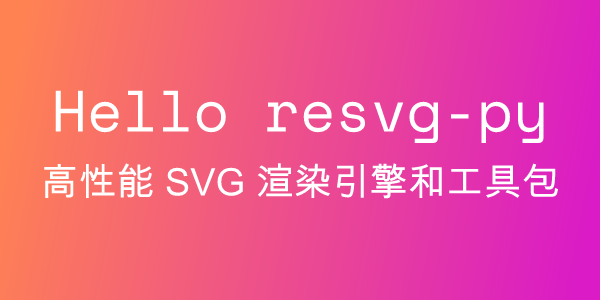
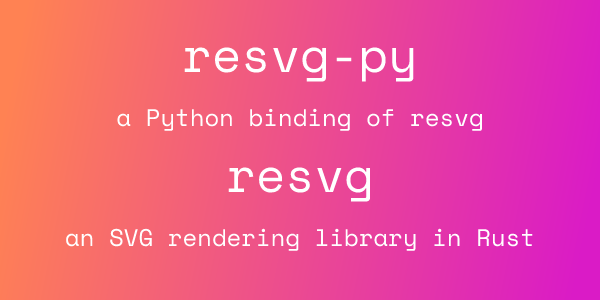
update image link in README

diff --git a/README.md b/README.md
@@ -1,12 +1,12 @@
 # resvg-py
 
-![title](images/a.png)
+![title](https://github.com/briceyan/resvg-py/blob/main/images/a.png?raw=true)
 
 Resvg-py is a Python package that provides high-performance SVG rendering by wrapping the `resvg` Rust library using PyO3. This package allows Python applications to easily render SVG files to various image formats with high fidelity and performance.
 
 See https://github.com/RazrFalcon/resvg for more info about resvg.
 
-This project is inspired by https://github.com/yisibl/resvg-js. The image credits mentioned above also go to the same source.
+This project is inspired by https://github.com/yisibl/resvg-js. The image displayed above has been modified from a test image(SVG) included in this project and was converted using this package.
 
 ## Installation
 
@@ -53,10 +53,15 @@ File content of `a.svg`
   </defs>
   <g fill="none" fill-rule="evenodd">
     <use fill="url(#b)" xlink:href="#a" />
-    <text x="50%" y="39%" font-size="58" fill="#FFF" dominant-baseline="middle" text-anchor="middle">Hello
+    <text x="50%" y="20%" font-size="48" fill="#FFF" dominant-baseline="middle" text-anchor="middle">
       resvg-py</text>
-    <text x="50%" y="62%" font-size="38" fill="#FFF" dominant-baseline="middle" text-anchor="middle">高性能
-      SVG 渲染引擎和工具包</text>
+    <text x="50%" y="40%" font-size="24" fill="#FFF" dominant-baseline="middle" text-anchor="middle">
+      a Python binding of resvg</text>
+    <text x="50%" y="60%" font-size="48" fill="#FFF" dominant-baseline="middle" text-anchor="middle">
+      resvg</text>
+    <text x="50%" y="80%" font-size="24" fill="#FFF" dominant-baseline="middle" text-anchor="middle">
+      an SVG rendering library in Rust
+    </text>
   </g>
 </svg>
 ```
